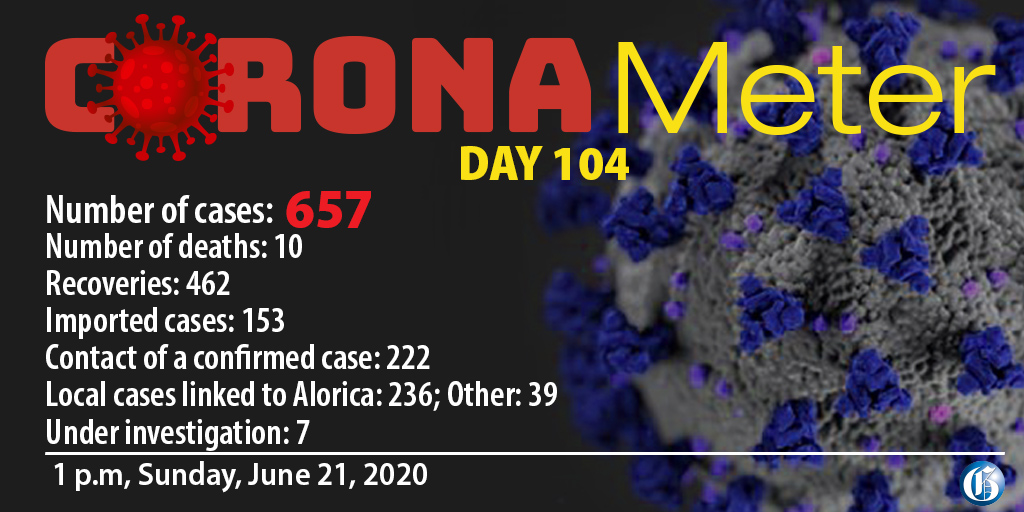
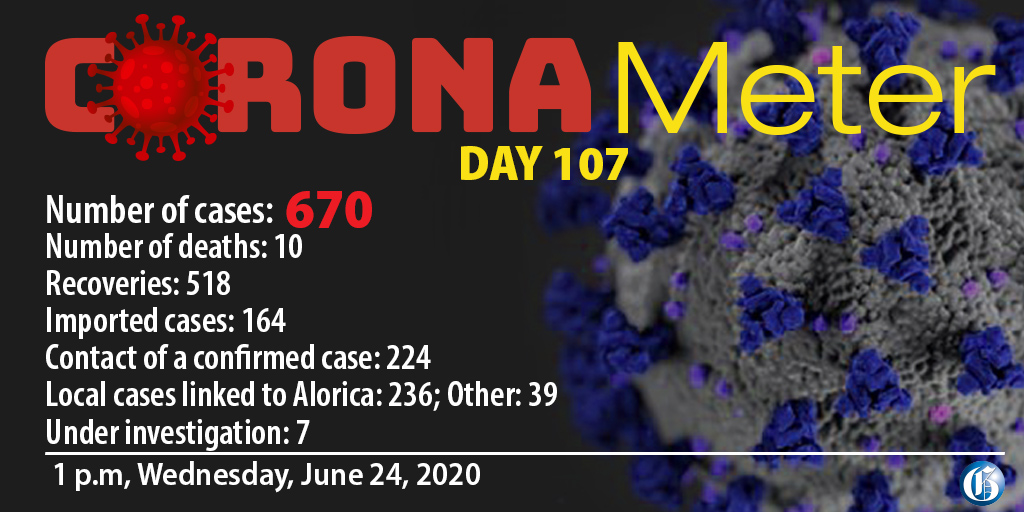
June 24

diff --git a/index.html b/index.html
@@ -134,7 +134,7 @@
           <div class="info-container">
             <p class="info-heading red">
               The Coronavirus is in Jamaica and at this time
-              <span href="#">657</span> persons have contracted the virus.
+              <span href="#">670g</span> persons have contracted the virus.
             </p>
 
             <p class="info-heading">
